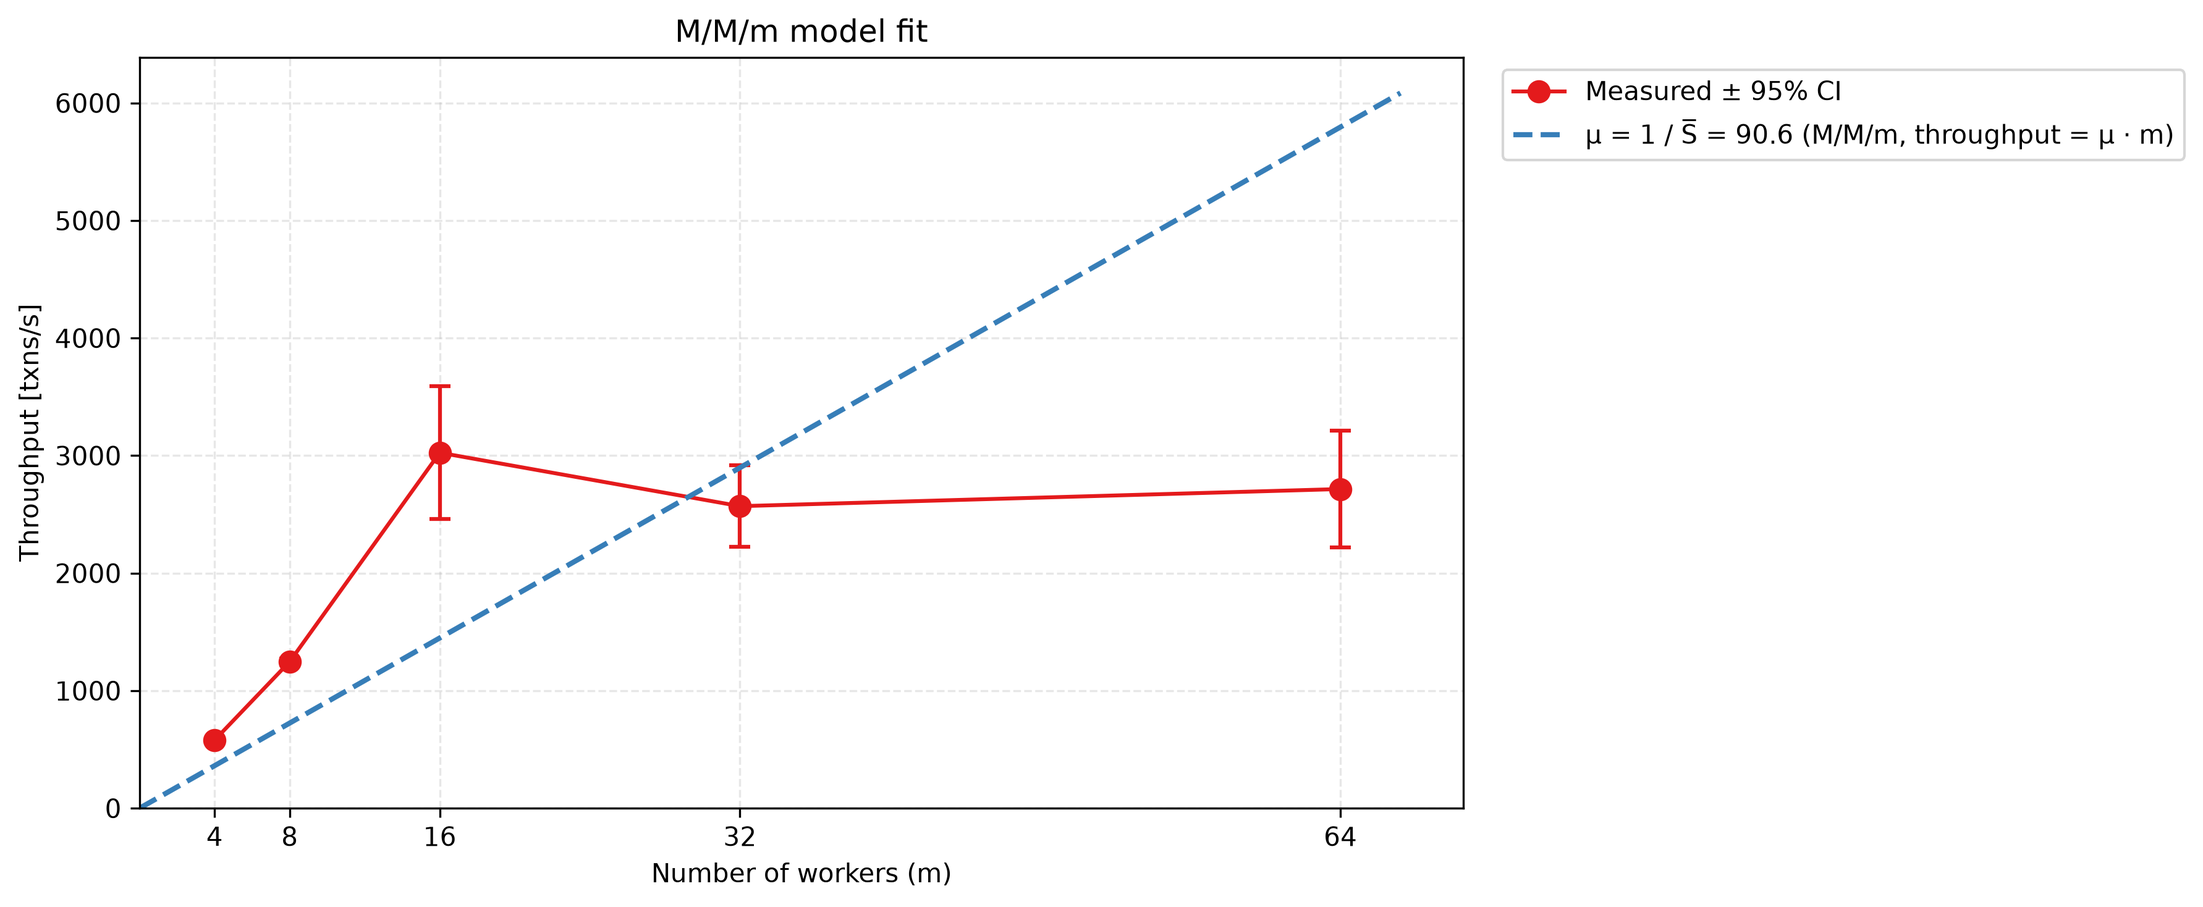
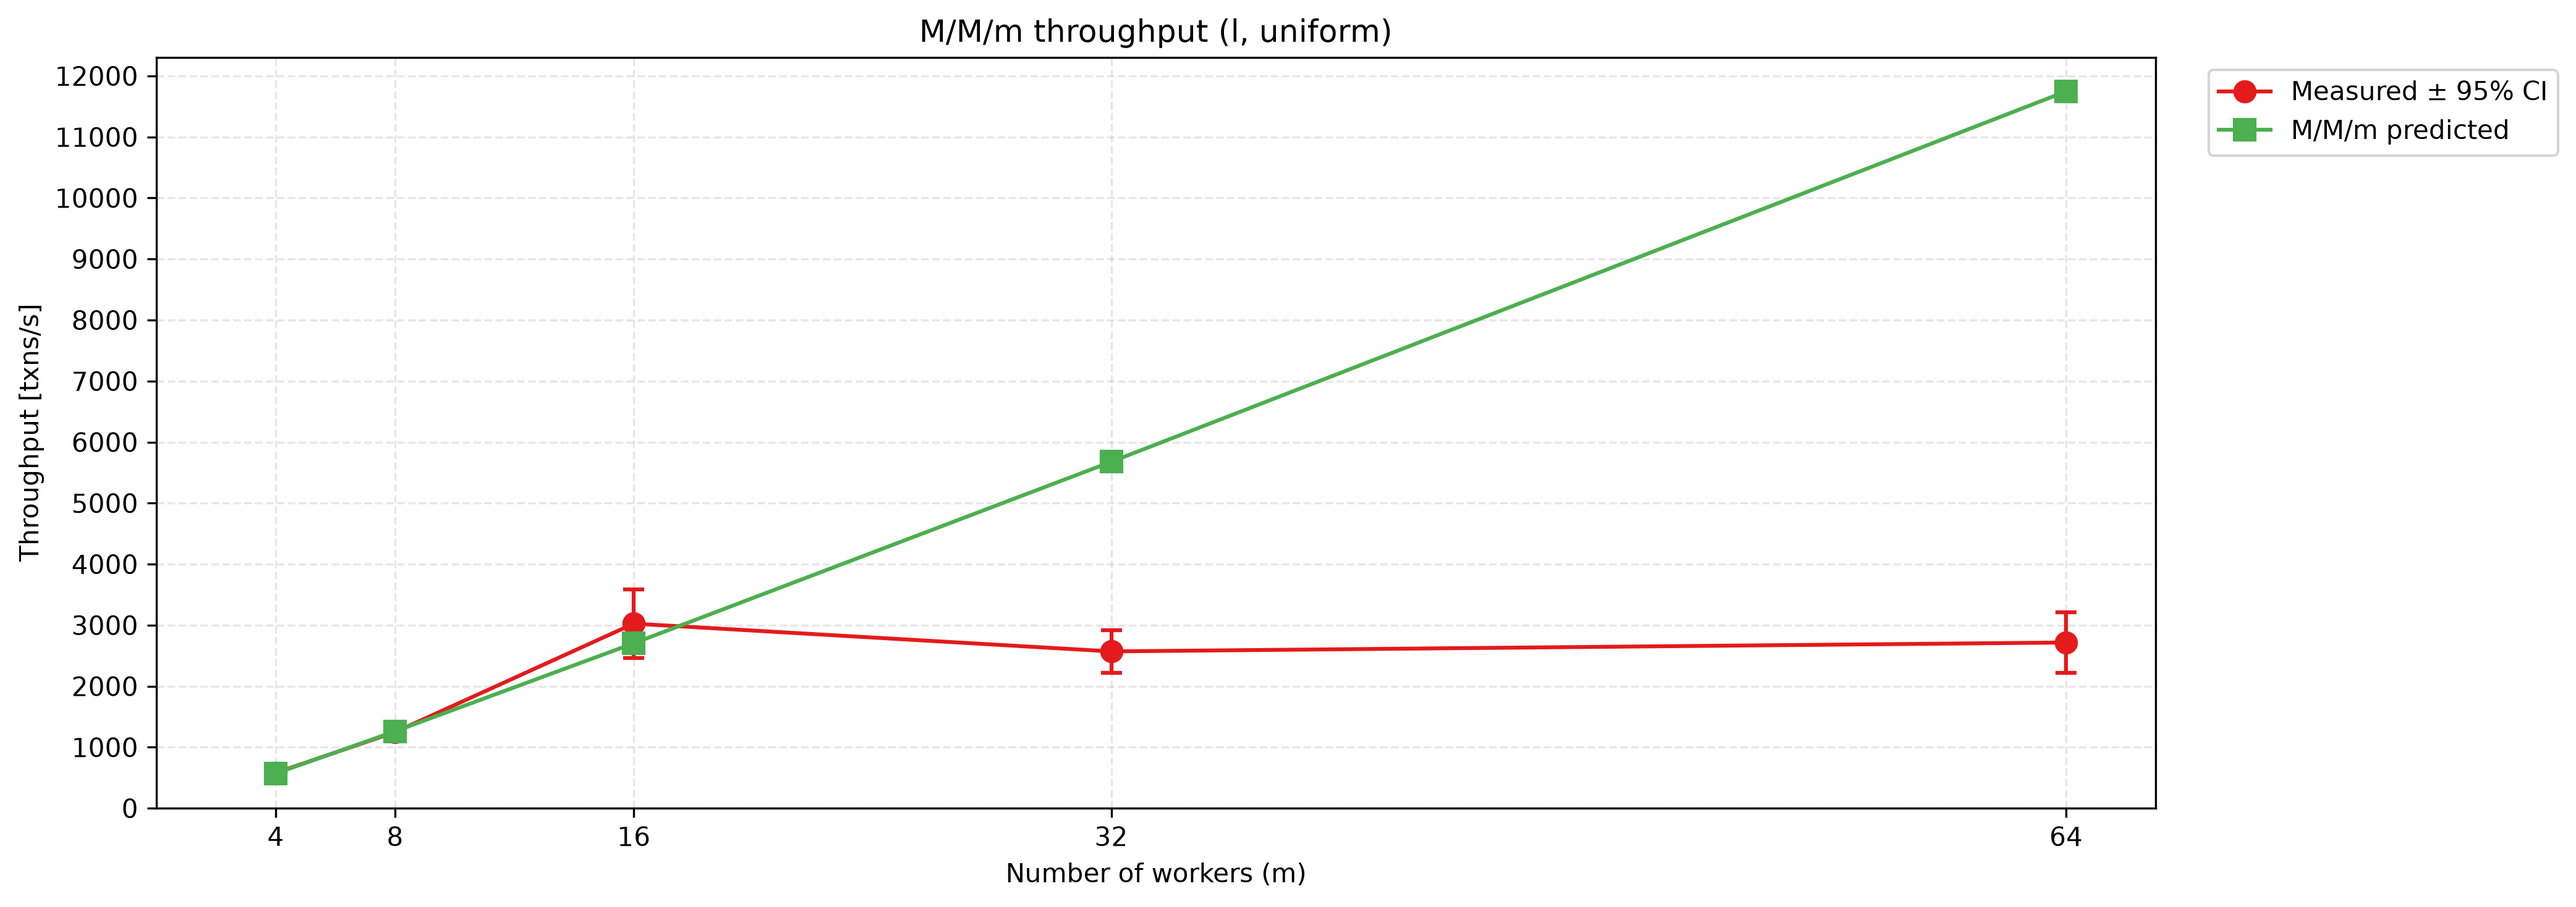
adjust plot script for M/M/m

diff --git a/plot/exp3/mmm-model.py b/plot/exp3/mmm-model.py
@@ -1,23 +1,37 @@
 import argparse
 import glob
+import math
 import os
 import sys
 
-import matplotlib.pyplot as plt  # pyright: ignore[reportMissingImports]
+import matplotlib.pyplot as plt
+from matplotlib.ticker import MultipleLocator
 
 sys.path.insert(0, os.path.join(os.path.dirname(__file__), ".."))
 from config import (
-    BLUE,  # pyright: ignore[reportAttributeAccessIssue]
     CC_LEVELS,  # pyright: ignore[reportAttributeAccessIssue]
+    GREEN,  # pyright: ignore[reportAttributeAccessIssue]
     RED,  # pyright: ignore[reportAttributeAccessIssue]
     M,  # pyright: ignore[reportAttributeAccessIssue]
     data_dir_for,  # pyright: ignore[reportAttributeAccessIssue]
-    figsize_single,  # pyright: ignore[reportAttributeAccessIssue]
     grid_style,  # pyright: ignore[reportAttributeAccessIssue]
     legend_pos,  # pyright: ignore[reportAttributeAccessIssue]
     load_csv,  # pyright: ignore[reportAttributeAccessIssue]
     mean_ci,  # pyright: ignore[reportAttributeAccessIssue]
 )
+
+FIGSIZE = (14, 5)
+
+# precompute n! for n = 0..64 used in p0 formula
+FACT = [math.factorial(n) for n in range(65)]
+
+
+def nice_step(max_val, target_bins=10):
+    if max_val <= 0:
+        return 1.0
+    step = max_val / target_bins
+    exp = 10 ** math.floor(math.log10(step))
+    return round(step / exp) * exp
 
 
 def throughput_per_run(data):
@@ -25,22 +39,56 @@ def throughput_per_run(data):
     return last["txns"] / last["time_s"]
 
 
+def mm_m_response_time(m, lam, mu):
+    # ρ = λ / (m·μ)
+    rho = lam / (m * mu)
+    if rho >= 0.9999:
+        return float("inf")
+
+    # p0 = 1 / [ Σ (mρ)ⁿ/n! + (mρ)ᵐ / (m!·(1-ρ)) ]
+    expr = m * rho
+    sum_terms = sum(expr**n / FACT[n] for n in range(m))
+    extra = expr**m / (FACT[m] * (1 - rho))
+    p_0 = 1.0 / (sum_terms + extra)
+
+    # q = P(queueing) = (mρ)ᵐ / (m!·(1-ρ)) · p0
+    q = expr**m / (FACT[m] * (1 - rho)) * p_0
+
+    # E[r] = 1/μ · (1 + q / (m·(1-ρ)))
+    return 1.0 / mu * (1.0 + q / (m * (1 - rho)))
+
+
+def closed_throughput(m, mu):
+    """self-consistent throughput for closed M/M/m: λ = m / E[r](λ)"""
+    lo, hi = 0.0, m * mu * 0.99999
+    for _ in range(200):
+        mid = (lo + hi) / 2.0
+        r = mm_m_response_time(m, mid, mu)
+        if r == float("inf") or mid > m / r:
+            hi = mid
+        else:
+            lo = mid
+    return (lo + hi) / 2.0
+
+
 def main():
     parser = argparse.ArgumentParser(description="M/M/m model plot")
     parser.add_argument(
-        "--mode", choices=["throughput", "response-time"], default="throughput"
+        "--mode", choices=["throughput", "response-time"], default="response-time"
     )
     args = parser.parse_args()
 
-    EXPS = [("l", "uniform"), ("l", "zipf"), ("s", "uniform"), ("s", "zipf")]
-
-    for size, dist in EXPS:
-        all_S = []
+    for size, dist in [
+        ("l", "uniform"),
+        ("l", "zipf"),
+        ("s", "uniform"),
+        ("s", "zipf"),
+    ]:
         means = []
         ci_lowers = []
         ci_uppers = []
 
-        for i, label in enumerate(CC_LEVELS):
+        for label in CC_LEVELS:
             data_dir = data_dir_for(label, size, dist)
             csvs = sorted(glob.glob(os.path.join(data_dir, "**/*.csv"), recursive=True))
             csvs = [
@@ -55,60 +103,77 @@ def main():
             runs = [load_csv(f) for f in csvs]
             tps = [throughput_per_run(r) for r in runs]
 
-            S_vals = [M[i] / tp for tp in tps]
-            all_S.extend(S_vals)
-
-            m, lo, hi = mean_ci(tps)
-            means.append(m)
+            m_val, lo, hi = mean_ci(tps)
+            means.append(m_val)
             ci_lowers.append(lo)
             ci_uppers.append(hi)
 
-        S_mean = sum(all_S) / len(all_S)
-        mu = 1.0 / S_mean
+        if len(means) < 1:
+            continue
+
         n = len(M)
 
-        fig, ax = plt.subplots(figsize=figsize_single)
+        # µ = max throughput per worker / 0.95  to ensure ρ < 1 for all m
+        mu = max(means[i] / M[i] for i in range(n)) / 0.95
 
         if args.mode == "response-time":
-            rt_means = [M[i] / means[i] * 1000 for i in range(n)]
-            rt_lowers = [M[i] / ci_uppers[i] * 1000 for i in range(n)]
-            rt_uppers = [M[i] / ci_lowers[i] * 1000 for i in range(n)]
-            rt_ideal = S_mean * 1000
+            rt_meas = [M[i] / means[i] * 1000 for i in range(n)]
+            rt_lower = [M[i] / ci_uppers[i] * 1000 for i in range(n)]
+            rt_upper = [M[i] / ci_lowers[i] * 1000 for i in range(n)]
+
+            rt_mmm = []
+            for i in range(n):
+                lam = means[i]
+                r = mm_m_response_time(M[i], lam, mu)
+                rt_mmm.append(r * 1000 if r != float("inf") else float("nan"))
+
+            fig, ax = plt.subplots(figsize=FIGSIZE)
 
             ax.plot(
                 M,
-                rt_means,
-                color=RED,  # red
+                rt_meas,
+                color=RED,
                 linewidth=1.5,
                 marker="o",
                 markersize=8,
-                label="Measured (Little's law: m / throughput)",
+                label="Measured",
             )
             ax.errorbar(
                 M,
-                rt_means,
+                rt_meas,
                 yerr=[
-                    [rt_means[i] - rt_lowers[i] for i in range(n)],
-                    [rt_uppers[i] - rt_means[i] for i in range(n)],
+                    [rt_meas[i] - rt_lower[i] for i in range(n)],
+                    [rt_upper[i] - rt_meas[i] for i in range(n)],
                 ],
                 fmt="none",
                 color=RED,
                 capsize=4,
                 capthick=1.5,
             )
-            ax.axhline(
-                y=rt_ideal,
-                linestyle="--",
-                color=BLUE,
-                linewidth=2,
-                label=f"S̅ = {rt_ideal:.1f} ms  (M/M/m ideal, R = 1/μ)",
+
+            ax.plot(
+                M,
+                rt_mmm,
+                color=GREEN,
+                linewidth=1.5,
+                marker="s",
+                markersize=8,
+                label="M/M/m predicted",
             )
 
             ax.set_ylabel("Average response time [ms]")
-            ax.set_title("M/M/m average response time")
-            ax.set_ylim(bottom=0)
-            out_path = f"charts/cloud/exp3/{size}/{dist}/mmm-response-time.png"
+            ax.set_title(f"M/M/m response time ({size}, {dist})")
+
+            # y-axis ticks at nice intervals
+            valid = [v for v in rt_meas + rt_mmm if not math.isnan(v)]
+            if valid:
+                step = nice_step(max(valid))
+                ax.yaxis.set_major_locator(MultipleLocator(step))
         else:
+            mmm_pred = [closed_throughput(M[i], mu) for i in range(n)]
+
+            fig, ax = plt.subplots(figsize=FIGSIZE)
+
             ax.plot(
                 M,
                 means,
@@ -130,28 +195,40 @@ def main():
                 capsize=4,
                 capthick=1.5,
             )
+
             ax.plot(
-                [0, max(M) * 1.05],
-                [0, mu * max(M) * 1.05],
-                linestyle="--",
-                color=BLUE,
-                linewidth=2,
-                label=f"μ = 1 / S̅ = {mu:.1f} (M/M/m, throughput = μ · m)",
+                M,
+                mmm_pred,
+                color=GREEN,
+                linewidth=1.5,
+                marker="s",
+                markersize=8,
+                label="M/M/m predicted",
             )
+
             ax.set_ylabel("Throughput [txns/s]")
-            ax.set_title("M/M/m model fit")
-            ax.set_ylim(bottom=0)
-            out_path = f"charts/cloud/exp3/{size}/{dist}/mmm-throughput.png"
+            ax.set_title(f"M/M/m throughput ({size}, {dist})")
+
+            # y-axis ticks at nice intervals
+            valid = [v for v in means + mmm_pred if not math.isnan(v)]
+            if valid:
+                step = nice_step(max(valid))
+                ax.yaxis.set_major_locator(MultipleLocator(step))
 
         ax.set_xlabel("Number of workers (m)")
         ax.set_xticks(M)
         ax.set_xlim(left=0)
+        ax.set_ylim(bottom=0)
+
+        # always show plain numbers (no scientific notation, no offset)
         ax.ticklabel_format(axis="y", style="plain", useOffset=False)
         ax.legend(**legend_pos)
         ax.grid(True, **grid_style)
         plt.tight_layout()
 
-        os.makedirs(os.path.dirname(out_path), exist_ok=True)
+        os.makedirs(os.path.dirname(f"charts/cloud/exp3/{size}/{dist}/"), exist_ok=True)
+        suffix = "response-time" if args.mode == "response-time" else "throughput"
+        out_path = f"charts/cloud/exp3/{size}/{dist}/mmm-{suffix}.png"
         plt.savefig(out_path, dpi=300, bbox_inches="tight")
         print(f"Saved to {out_path}")
         plt.close(fig)
